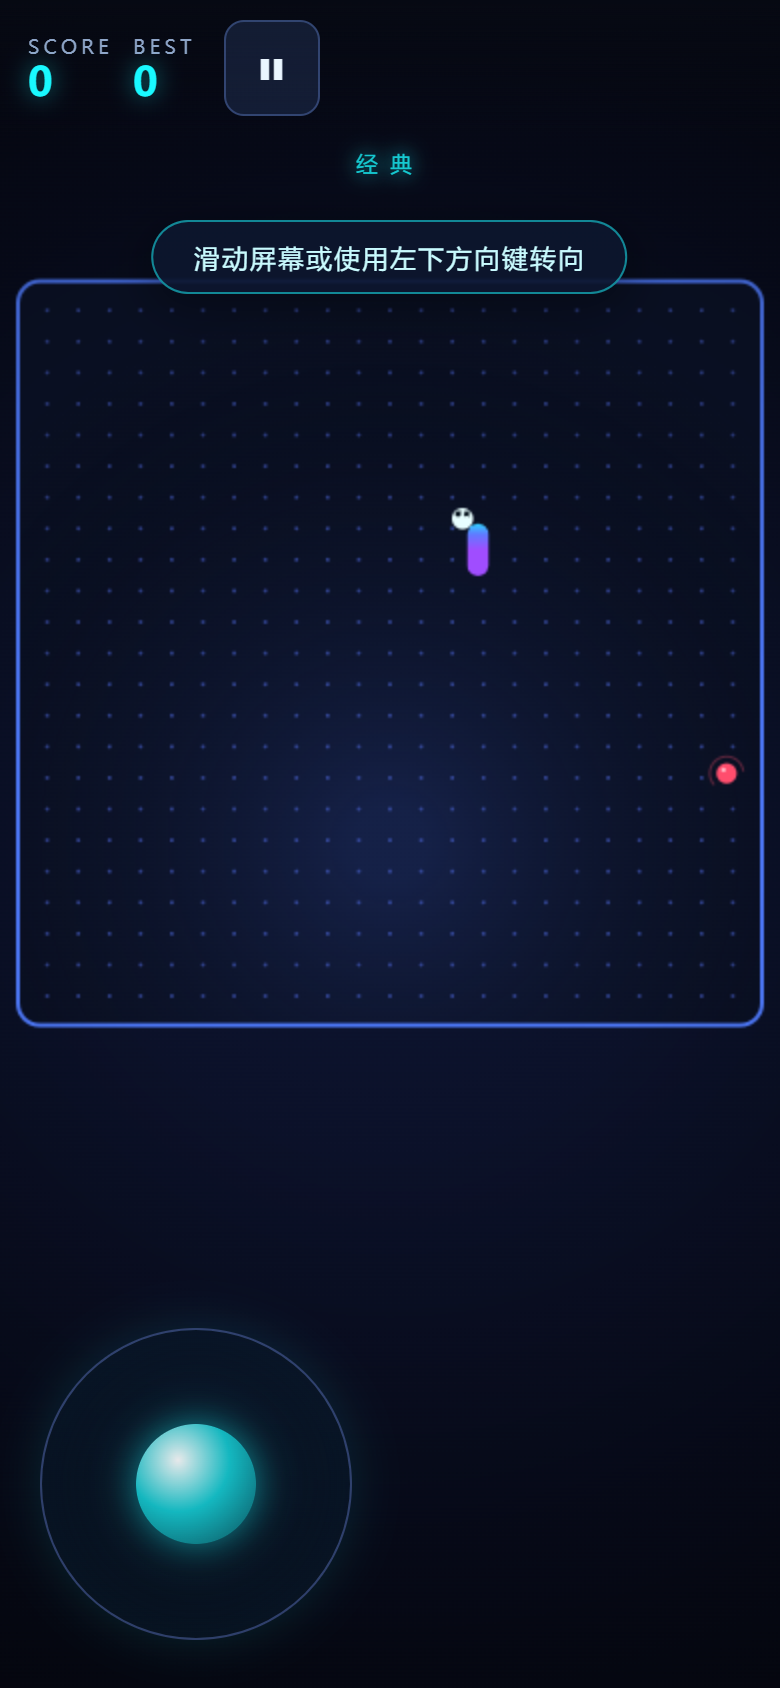
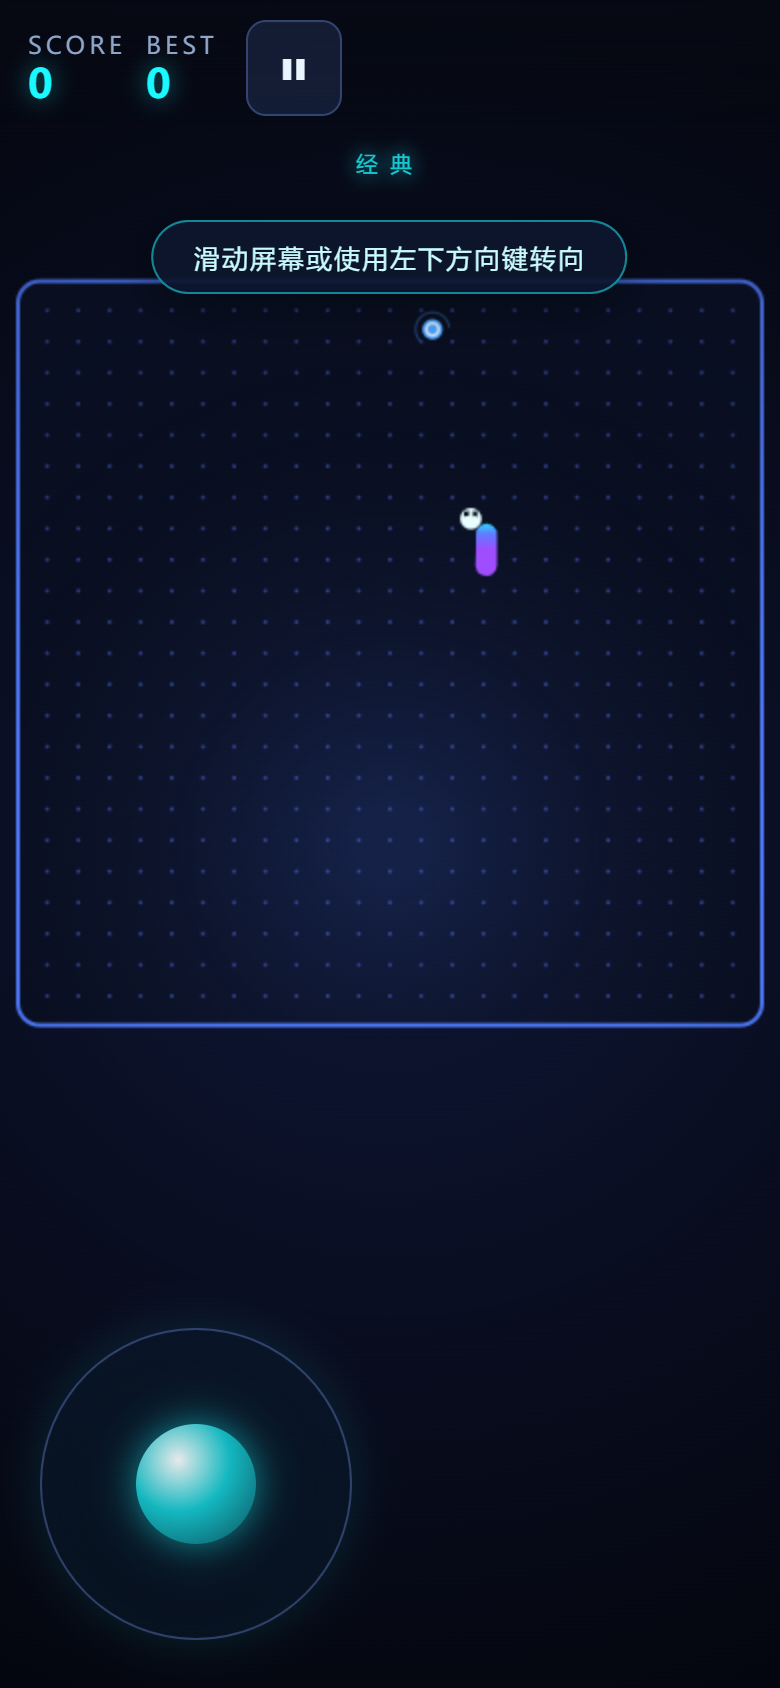
Enlarge HUD score and mode text for windowed play

diff --git a/css/style.css b/css/style.css
@@ -190,7 +190,7 @@ html, body {
 }
 
 .hud-stat { display: flex; flex-direction: column; align-items: flex-start; line-height: 1.1; }
-.hud-stat .label { font-size: 10px; letter-spacing: 2px; color: var(--dim); }
+.hud-stat .label { font-size: 12px; letter-spacing: 2px; color: var(--dim); }
 .hud-stat b { font-size: clamp(20px, 3.6vw, 28px); font-weight: 800; color: var(--cyan); text-shadow: 0 0 12px rgba(25, 249, 255, 0.5); }
 
 .combo-chip {

diff --git a/deploy-site/index.html b/deploy-site/index.html
@@ -199,7 +199,7 @@ html, body {
 }
 
 .hud-stat { display: flex; flex-direction: column; align-items: flex-start; line-height: 1.1; }
-.hud-stat .label { font-size: 10px; letter-spacing: 2px; color: var(--dim); }
+.hud-stat .label { font-size: 12px; letter-spacing: 2px; color: var(--dim); }
 .hud-stat b { font-size: clamp(20px, 3.6vw, 28px); font-weight: 800; color: var(--cyan); text-shadow: 0 0 12px rgba(25, 249, 255, 0.5); }
 
 .combo-chip {

diff --git a/index.html b/index.html
@@ -199,7 +199,7 @@ html, body {
 }
 
 .hud-stat { display: flex; flex-direction: column; align-items: flex-start; line-height: 1.1; }
-.hud-stat .label { font-size: 10px; letter-spacing: 2px; color: var(--dim); }
+.hud-stat .label { font-size: 12px; letter-spacing: 2px; color: var(--dim); }
 .hud-stat b { font-size: clamp(20px, 3.6vw, 28px); font-weight: 800; color: var(--cyan); text-shadow: 0 0 12px rgba(25, 249, 255, 0.5); }
 
 .combo-chip {
